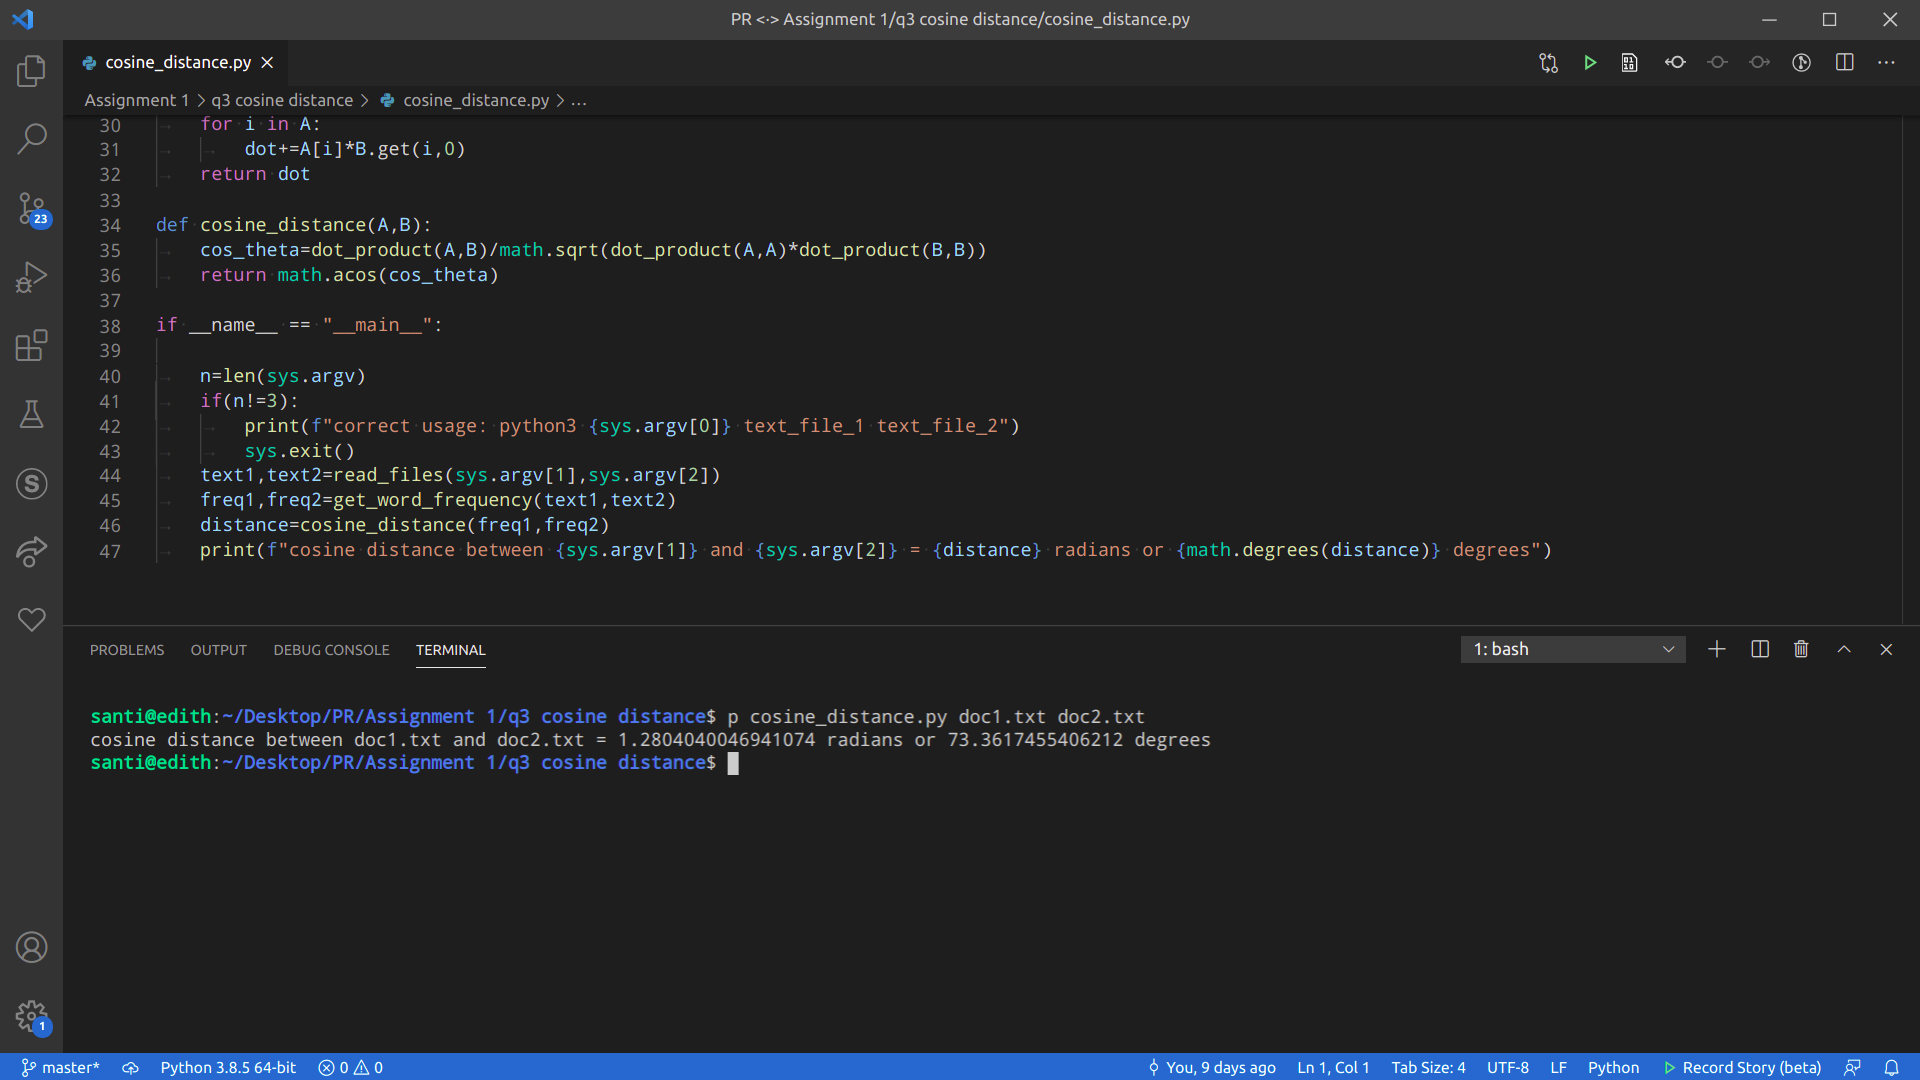
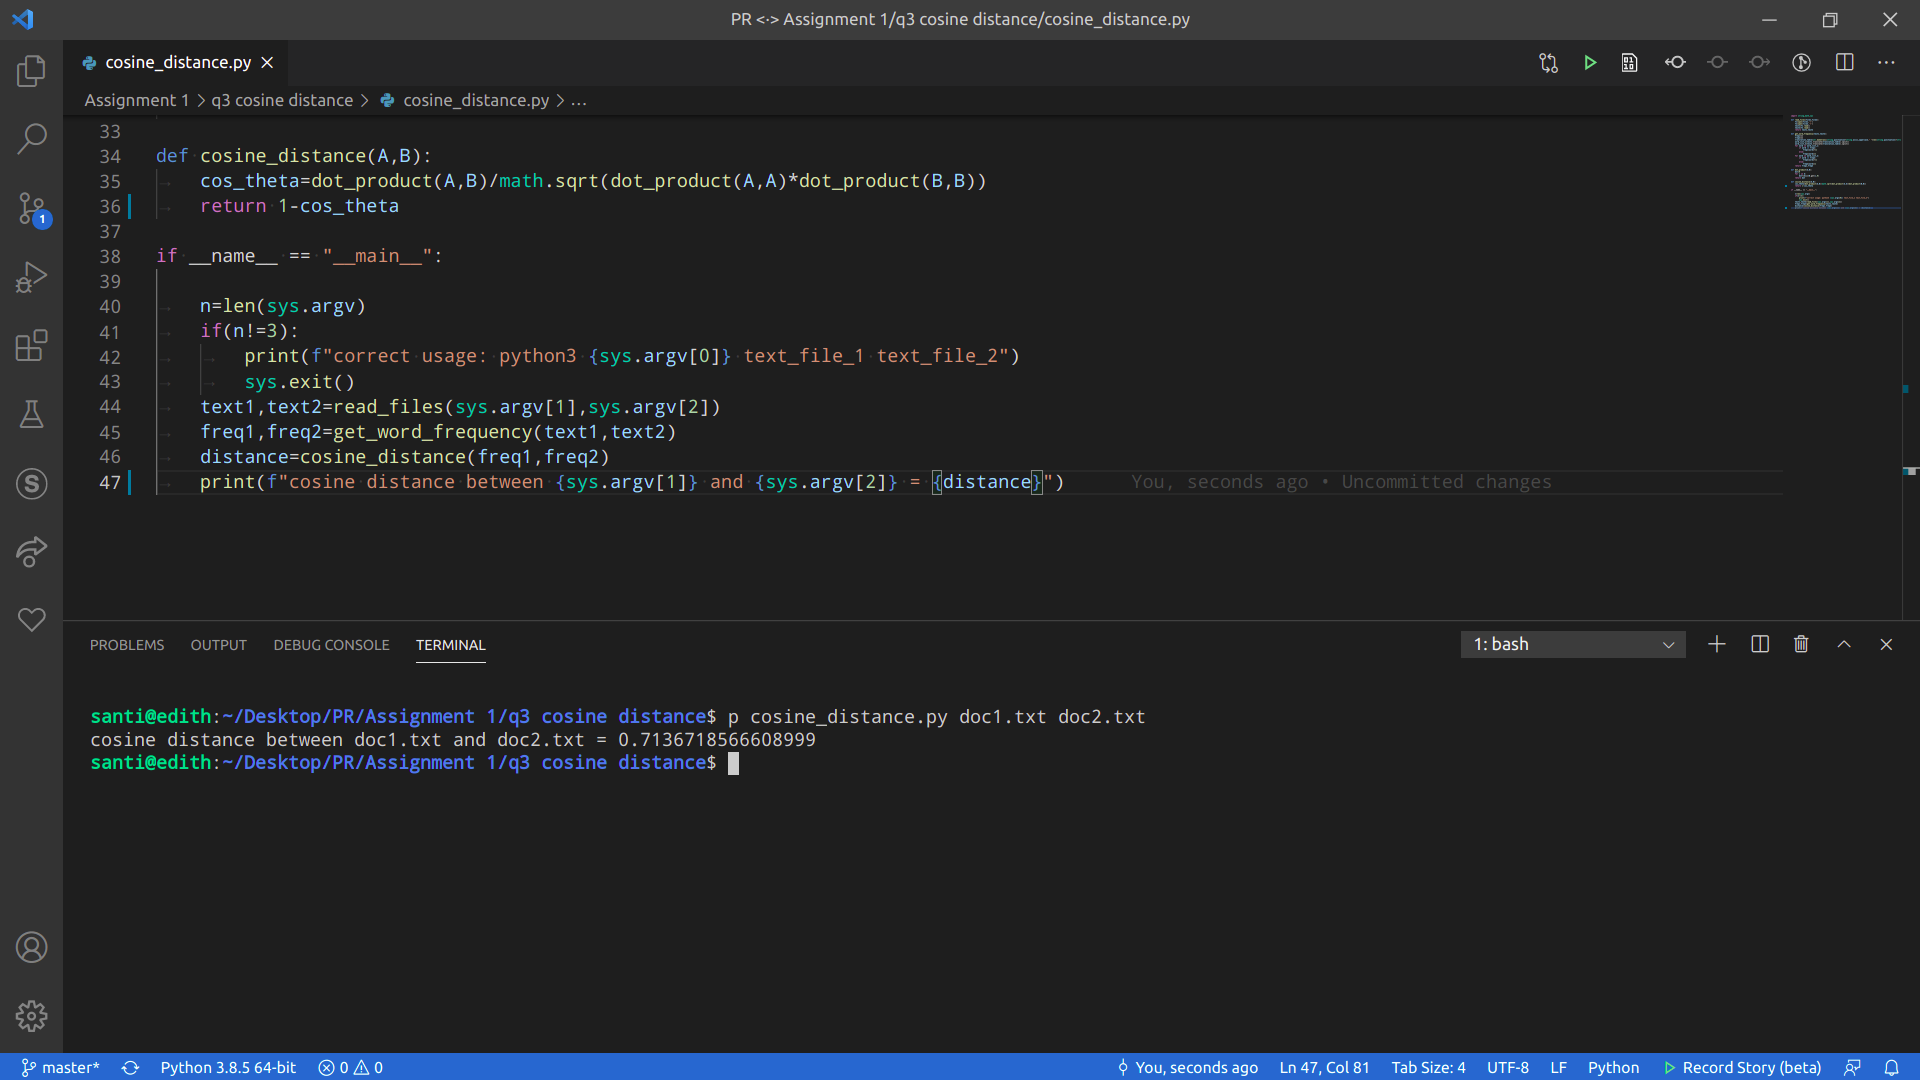
fix mistake in cosine distance program

diff --git a/Assignment 1/q3 cosine distance/cosine_distance.py b/Assignment 1/q3 cosine distance/cosine_distance.py
@@ -33,7 +33,7 @@ def dot_product(A,B):
 
 def cosine_distance(A,B):
 	cos_theta=dot_product(A,B)/math.sqrt(dot_product(A,A)*dot_product(B,B))
-	return math.acos(cos_theta)
+	return 1-cos_theta
 
 if __name__ == "__main__":
 
@@ -44,4 +44,4 @@ if __name__ == "__main__":
 	text1,text2=read_files(sys.argv[1],sys.argv[2])
 	freq1,freq2=get_word_frequency(text1,text2)
 	distance=cosine_distance(freq1,freq2)
-	print(f"cosine distance between {sys.argv[1]} and {sys.argv[2]} = {distance} radians or {math.degrees(distance)} degrees")
+	print(f"cosine distance between {sys.argv[1]} and {sys.argv[2]} = {distance}")
